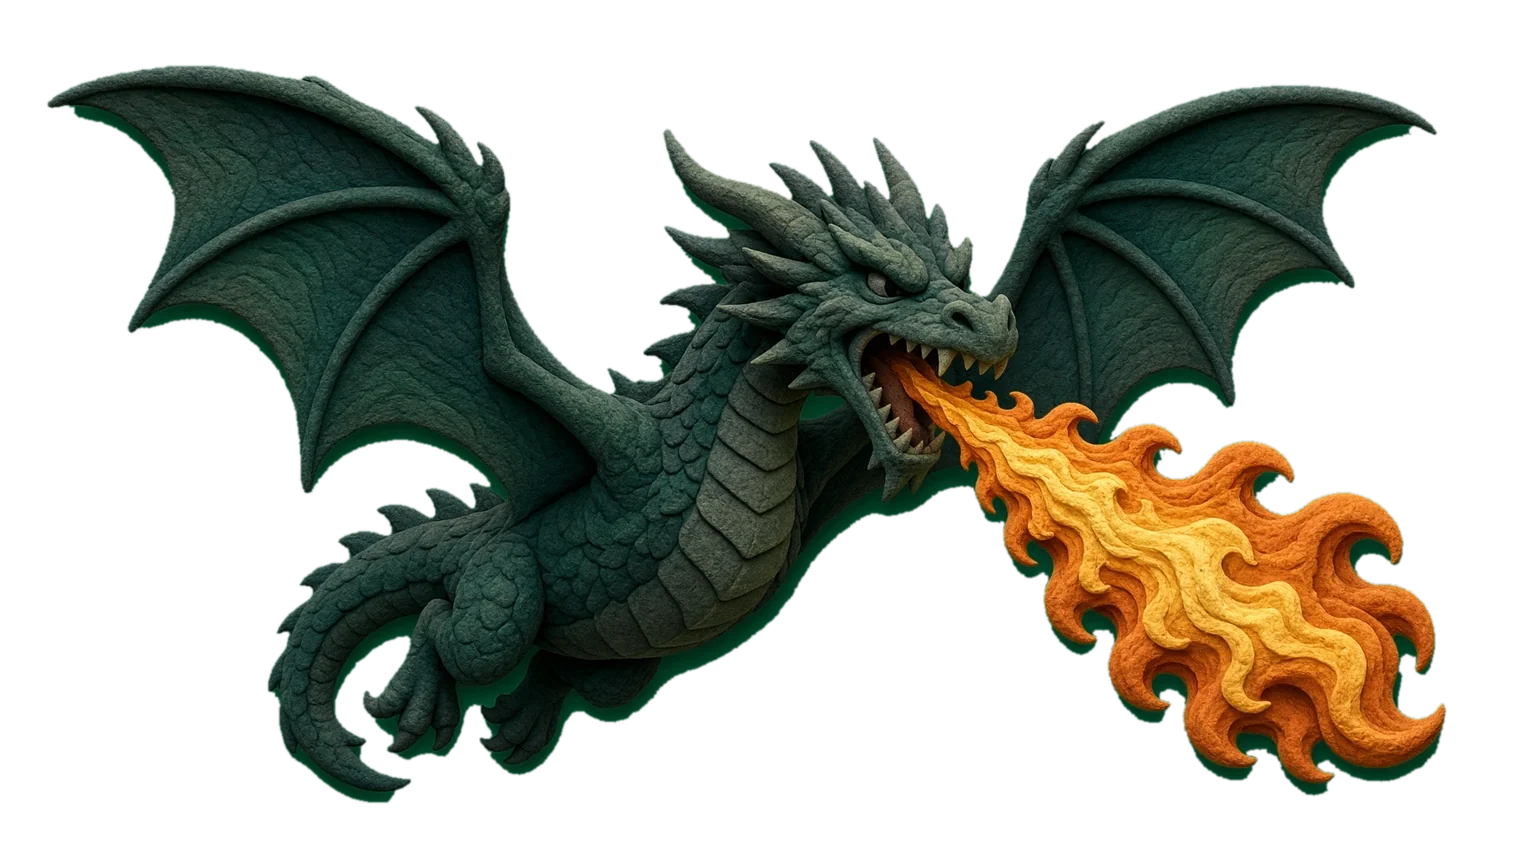
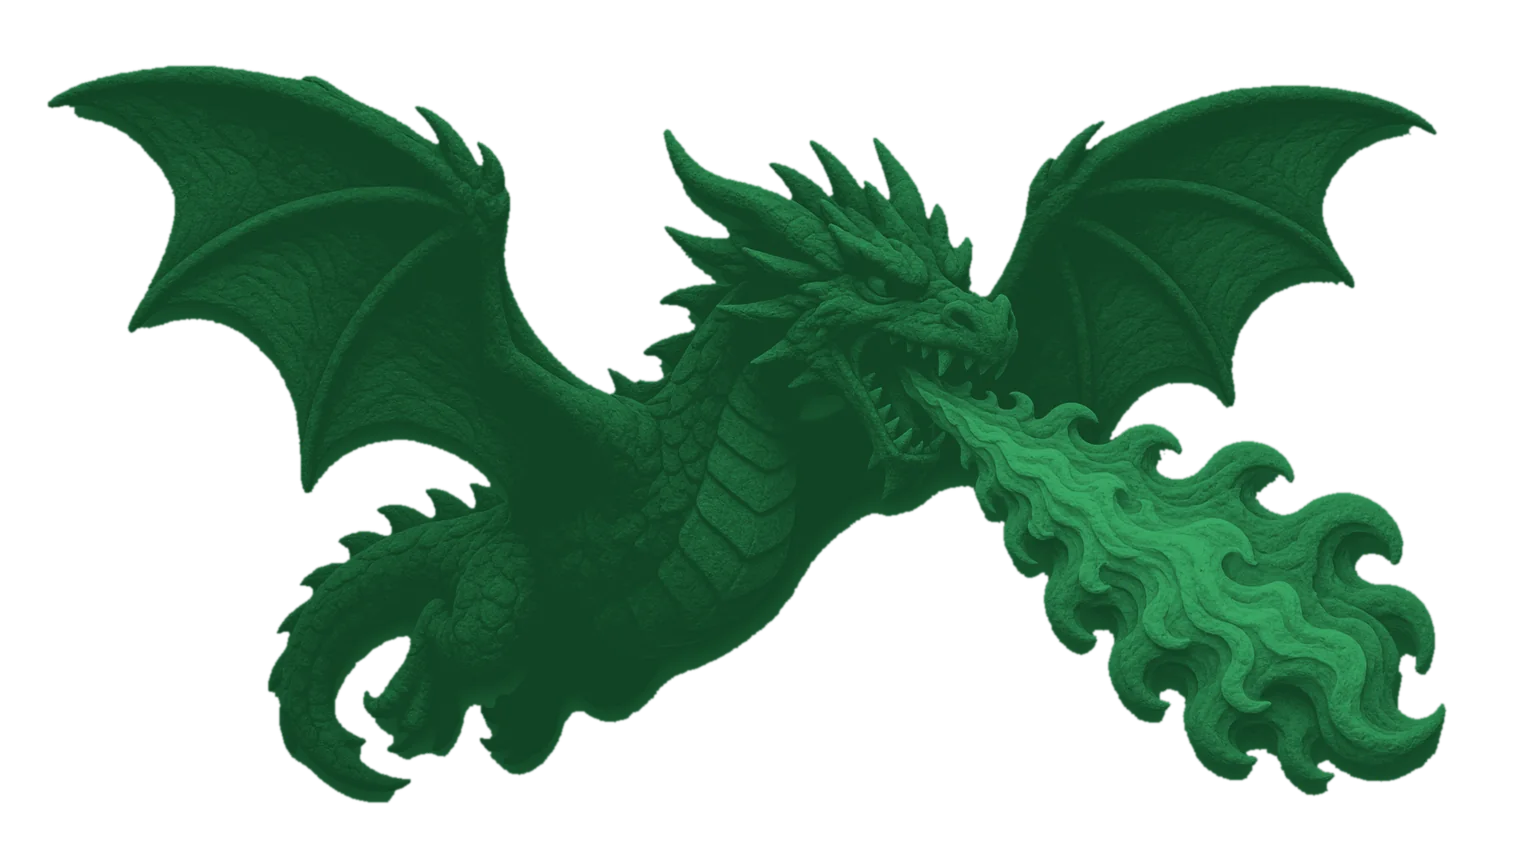
Mute the dragon to a tone-on-tone felt print
The full-colour dragon pulled the eye off the cards. It is remapped to
luminance only, into a narrow band of felt greens, so the fire is a
lighter green rather than orange, and drawn at 55% instead of 82%. It
reads as a pattern pressed into the cloth.

Claude-Session: https://claude.ai/code/session_019Lkx2WVu5bNqXsoKvLDBmp

diff --git a/poker/src/scene/table-scene.ts b/poker/src/scene/table-scene.ts
@@ -324,7 +324,7 @@ export class TableScene implements Presenter {
     dragonTex.anisotropy = 8;
     const dragon = new THREE.Mesh(
       new THREE.PlaneGeometry(7.4, 7.4 * (864 / 1536)),
-      new THREE.MeshStandardMaterial({ map: dragonTex, transparent: true, opacity: 0.82, roughness: 1, depthWrite: false, polygonOffset: true, polygonOffsetFactor: -1 }),
+      new THREE.MeshStandardMaterial({ map: dragonTex, transparent: true, opacity: 0.55, roughness: 1, depthWrite: false, polygonOffset: true, polygonOffsetFactor: -1 }),
     );
     dragon.rotation.x = -Math.PI / 2;
     dragon.position.set(0, 0.003, -0.1);

diff --git a/poker/HANDOFF.md b/poker/HANDOFF.md
@@ -82,9 +82,11 @@ one and whenever the blinds go up, a result card mid-table at the end of each ha
 what, who won), and the speaker panel down the right side. Results screen, then back home.
 
 **The dragon.** `public/dragon.webp` (1536x864, keyed from a green-screen render the same way as
-the portraits, aspect kept) is a decal plane 7.4 units wide lying 3 mm above the felt under cards,
-chips and the button, shaded like the felt (`MeshStandardMaterial`, opacity 0.82, receives shadows).
-It shows in both room modes.
+the portraits, aspect kept, then remapped tone-on-tone: luminance only, into a band of felt greens
+from 0.62x to 1.35x the cloth colour, so the fire is a lighter green, not orange) is a decal plane
+7.4 units wide lying 3 mm above the felt under cards, chips and the button, shaded like the felt
+(`MeshStandardMaterial`, opacity 0.55, receives shadows). It is meant to be barely there; the
+original full-colour version was too loud behind the cards. It shows in both room modes.
 
 **The room.** A bright room drawn in 3D so it shares the table's perspective: a procedural
 light-oak plank floor (`plankTexture()`, a 1024 canvas of six staggered planks with grain and
